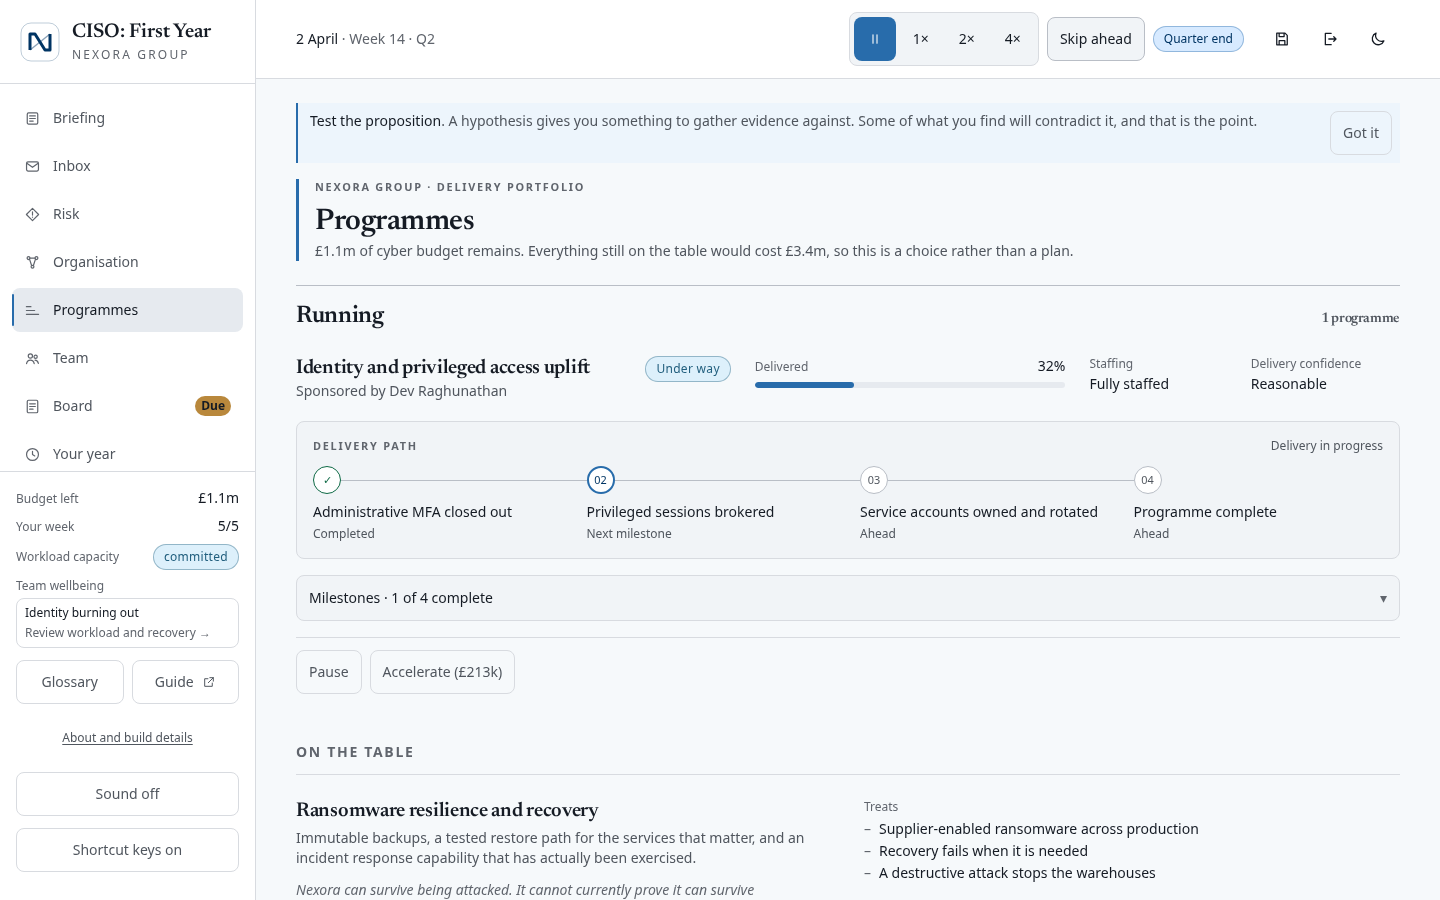
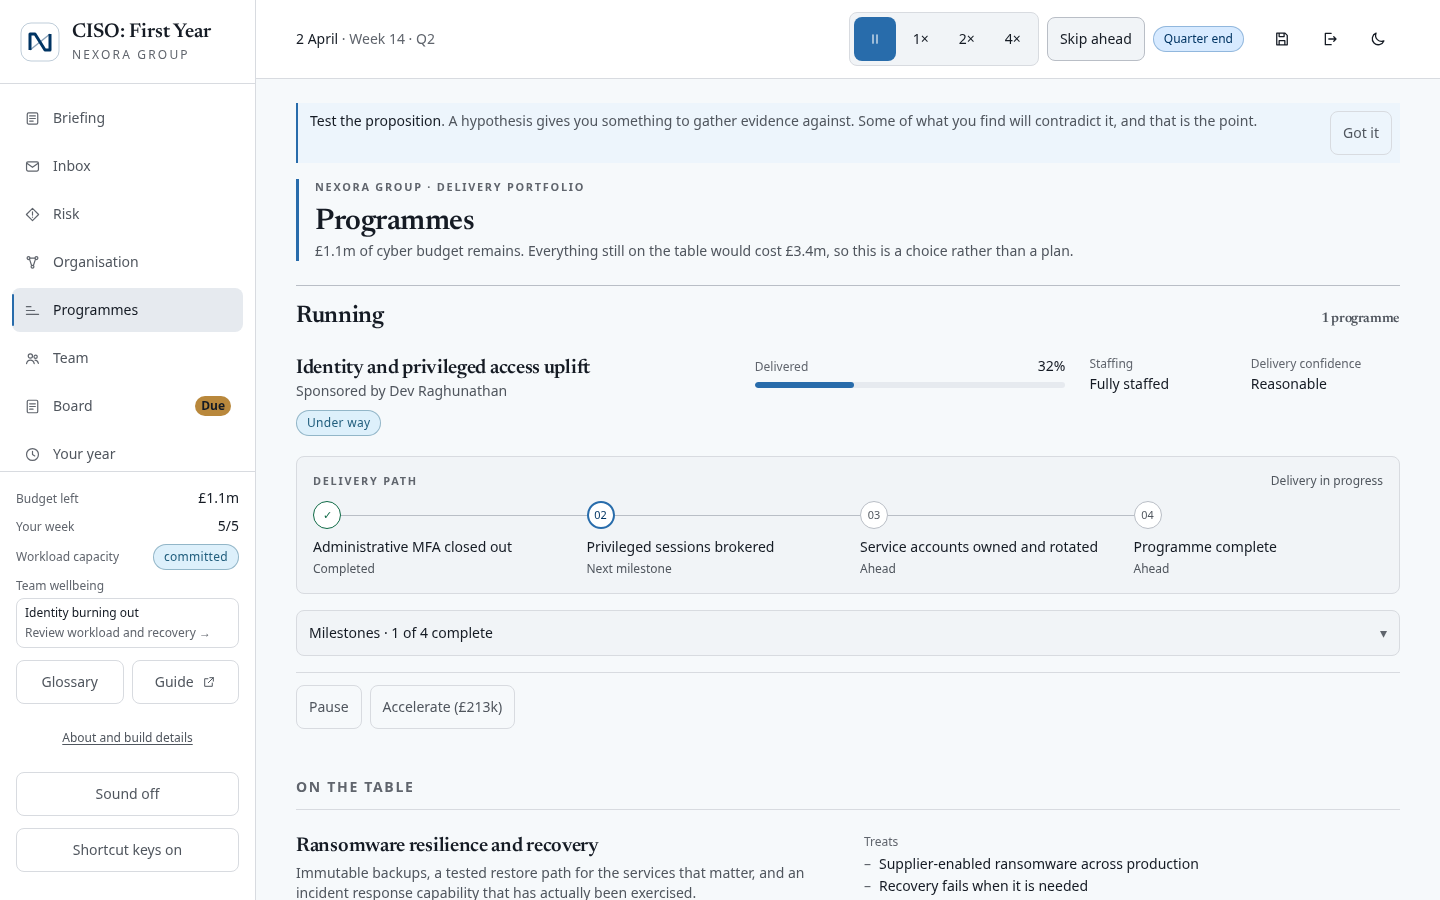
Align programme status and finish mobile navigation polish

diff --git a/tests/e2e/reading-flow.spec.ts b/tests/e2e/reading-flow.spec.ts
@@ -91,7 +91,11 @@ test('compact resources stay readable and the final risk tab remains reachable b
   await expect(last).toBeFocused()
   await expect(last).toHaveAttribute('aria-selected', 'true')
   await expect(last).toBeInViewport()
-  if (page.viewportSize()!.width < 768) await expect(page.locator('.risk-tab-cue')).toHaveText('← More tabs')
+  if (page.viewportSize()!.width < 768) {
+    await expect(page.locator('.risk-tab-cue')).toHaveText('← More tabs')
+    await expect(page.locator('.risk-tab-edges')).toHaveAttribute('data-after', 'false')
+    expect(await page.locator('.risk-tab-edges').evaluate((element) => getComputedStyle(element, '::after').opacity)).toBe('0')
+  }
   await last.press('Home')
   await expect(first).toBeFocused()
   await expect(first).toBeInViewport()
@@ -99,6 +103,8 @@ test('compact resources stay readable and the final risk tab remains reachable b
     const rows = await tabs.getByRole('tab').evaluateAll((elements) => elements.map((element) => Math.round(element.getBoundingClientRect().top)))
     expect(new Set(rows).size).toBe(1)
     await expect(page.locator('.risk-tab-cue')).toHaveText('More tabs →')
+    await expect(page.locator('.risk-tab-edges')).toHaveAttribute('data-after', 'true')
+    expect(await page.locator('.risk-tab-edges').evaluate((element) => getComputedStyle(element, '::after').pointerEvents)).toBe('none')
     await tabs.evaluate((element) => { element.scrollLeft = (element.scrollWidth - element.clientWidth) / 2 })
     await expect(page.locator('.risk-tab-cue')).toHaveText('← More tabs →')
     const viewport = page.viewportSize()!

diff --git a/src/screens/inbox/InboxScreen.tsx b/src/screens/inbox/InboxScreen.tsx
@@ -173,10 +173,12 @@ export function InboxScreen() {
           {selected && (
             <Card id="message-reader" ref={reader} className={`correspondence message-reader scroll-mt-36 message-reader-${MESSAGE_KIND[selected.type].style} md:sticky md:top-24 md:self-start`}>
               <CardBody>
-                <div className="mb-4 md:hidden"><Button variant="secondary" size="sm" onClick={backToMessages}>Back to messages</Button></div>
-                <div className="message-letterhead mb-2 flex items-center gap-2 border-b border-line pb-2 md:mb-4 md:pb-3">
-                  <NexoraMark className="h-5 w-5 md:h-7 md:w-7" />
-                  <span className="text-xs font-medium uppercase tracking-[0.16em] text-ink-faint">Nexora Group</span>
+                <div className="message-letterhead mb-2 flex items-center justify-between gap-2 border-b border-line pb-2 md:mb-4 md:pb-3">
+                  <div className="md:hidden"><Button variant="secondary" size="sm" onClick={backToMessages}>Back to messages</Button></div>
+                  <div className="flex items-center gap-2">
+                    <NexoraMark className="h-5 w-5 md:h-7 md:w-7" />
+                    <span className="hidden text-xs font-medium uppercase tracking-[0.16em] text-ink-faint min-[400px]:inline">Nexora Group</span>
+                  </div>
                 </div>
                 <div className="message-metadata">
                   <p className={`message-kind message-kind-${MESSAGE_KIND[selected.type].style} mb-1 flex items-center gap-2 text-xs font-medium md:mb-3`}>

diff --git a/src/index.css b/src/index.css
@@ -670,7 +670,6 @@
 @media (max-width: 767px) {
   .message-metadata { display: flex; flex-wrap: wrap; align-items: baseline; gap: 0.25rem 0.75rem; }
   .message-metadata .message-kind { margin-bottom: 0; }
-  .message-letterhead { letter-spacing: 0.1em; }
 }
 @media (min-width: 1024px) {
   .programme-summary { display: grid; grid-template-columns: minmax(0,1.4fr) minmax(0,1fr) minmax(0,1fr); align-items: start; gap: 1.5rem; }
@@ -681,4 +680,12 @@
   .programme-active .journey-step { grid-template-columns: minmax(0,1fr); gap: 0.5rem; }
   .programme-active .journey-step > div { padding-bottom: 0; }
   .programme-active .journey-step:not(:last-child)::before { top: 0.85rem; bottom: auto; left: 1.75rem; right: -1.5rem; border-left: 0; border-top: 1px solid var(--line-strong); }
+}
+
+@media (max-width: 767px) {
+  .risk-tab-edges { position: relative; }
+  .risk-tab-edges::before, .risk-tab-edges::after { content: ''; position: absolute; z-index: 1; top: 0; bottom: 0.35rem; width: 1rem; pointer-events: none; opacity: 0; }
+  .risk-tab-edges::before { left: -0.25rem; background: linear-gradient(to right,var(--paper),transparent); }
+  .risk-tab-edges::after { right: -0.25rem; background: linear-gradient(to left,var(--paper),transparent); }
+  .risk-tab-edges[data-before="true"]::before, .risk-tab-edges[data-after="true"]::after { opacity: 1; }
 }

diff --git a/src/screens/programmes/ProgrammesScreen.tsx b/src/screens/programmes/ProgrammesScreen.tsx
@@ -76,7 +76,7 @@ export function ProgrammesScreen() {
                 {label && <h2 className="portfolio-divider"><span>{label}</span>{' '}<span className="text-sm font-normal tabular-nums text-ink-muted">{count} {count === 1 ? 'programme' : 'programmes'}</span></h2>}
                 <article className="programme-row programme-active grid gap-5 py-6">
                   <div className="programme-summary space-y-3">
-                    <div className="flex flex-wrap items-start justify-between gap-2">
+                    <div className="programme-heading space-y-2">
                       <div>
                         <h3 className="font-display text-xl leading-tight text-balance">{programme.name}</h3>
                         <p className="text-sm text-ink-muted">

diff --git a/tests/e2e/visual-story.spec.ts b/tests/e2e/visual-story.spec.ts
@@ -44,6 +44,10 @@ test('programme journeys keep milestones and intervention controls reachable', a
   await expect(journey).toBeVisible()
   await expect(journey.getByRole('listitem')).not.toHaveCount(0)
   const row = page.locator('.programme-row').filter({ has: journey })
+  const heading = row.locator('.programme-heading')
+  const titleAndSponsor = await heading.locator(':scope > div').boundingBox()
+  const status = await heading.locator('.rounded-full').boundingBox()
+  expect(status!.y).toBeGreaterThanOrEqual(titleAndSponsor!.y + titleAndSponsor!.height)
   await row.getByRole('button', { name: 'Pause', exact: true }).click()
   await expect(journey).toContainText('Delivery paused')
   await row.getByRole('button', { name: /^Milestones/ }).click()

diff --git a/src/components/risk/RiskTabStrip.tsx b/src/components/risk/RiskTabStrip.tsx
@@ -22,7 +22,9 @@ export function RiskTabStrip({ children }: { children: ReactNode }) {
     return () => { observer?.disconnect(); element.removeEventListener('scroll', measure); window.removeEventListener('resize', measure) }
   }, [])
   return <>
-    <TabList ref={strip} label="Risk workspace" className="risk-tabs">{children}</TabList>
+    <div className="risk-tab-edges" data-before={cue.startsWith('←')} data-after={cue.endsWith('→')}>
+      <TabList ref={strip} label="Risk workspace" className="risk-tabs">{children}</TabList>
+    </div>
     <p className="risk-tab-cue mt-1 min-h-4 text-right text-xs text-ink-faint md:hidden" aria-hidden="true">{cue}</p>
   </>
 }

diff --git a/README.md b/README.md
@@ -36,6 +36,11 @@ beginning, middle and end of the year. These are a chronological sample, not
 a score or a claim about which choices caused the outcome. The full timeline,
 judgement log, sharing and printable review remain available.
 
+Active programme status has a consistent position below its title and sponsor.
+Phone risk tabs fade at edges with hidden tabs, matching the directional cue;
+the fade never intercepts input. Inbox return and branding share one phone row,
+leaving more room for the message while retaining the bottom return action.
+
 Phone dates use a short month and week label, with full calendar context for
 assistive technology. Risk badges omit words repeated in their field labels;
 scroll cues point only toward hidden tabs. Inbox mastheads use less phone space.

diff --git a/AGENTS.md b/AGENTS.md
@@ -32,6 +32,12 @@ changes.
 
 ## Artwork
 
+- Active programme status occupies a stable row beneath its title/sponsor.
+  Risk-tab edge fades follow the same overflow state as the cue, use theme
+  colours and never intercept input. Keep keyboard focus and final tabs visible.
+- Phone Inbox return and branding share one letterhead row. Retain both return
+  actions, heading focus, full sender details and the desktop letterhead.
+
 - Phone date labels use the existing calendar formatter and compact week text;
   retain the full date/week/quarter in accessible text. Risk badges beneath
   labelled comparison cells omit repeated field names, keeping qualitative bands.

diff --git a/CHANGELOG.md b/CHANGELOG.md
@@ -10,6 +10,9 @@ The game as it stands after the roadmap's engineering phases
 (`docs/ROADMAP.md`, Phases 0–7). Version 0.1.0 until the owner tags a release.
 
 ### Playing
+- Programme status stays beneath the title and sponsor across screen sizes.
+  Phone risk tabs have theme-aware edge fades that follow actual overflow.
+  Inbox return and branding share a compact phone letterhead row.
 - Phone dates and risk badges are shorter without losing calendar context or
   qualitative bands. Risk tab cues follow the actual scroll position. Compact
   Inbox mastheads bring text closer, and full-width desktop programme summaries

diff --git a/docs/PLAYER_GUIDE.md b/docs/PLAYER_GUIDE.md
@@ -592,6 +592,11 @@ portrait cannot load.
 
 ### Reading and comparing work
 
+Programme status sits below its title and sponsor. On phones, fades mark the
+edges of the risk tabs with more content outside the view. The Inbox puts its
+return action and Nexora mark on one line; another return action remains below
+the message.
+
 On phones, Budget and Attention appear beside the clock. Dates use a short month
 and week, such as “2 Jan · W1”. Risk badges show the value beneath its field label.
 The tab arrows point toward tabs still outside the view. Desktop programme
